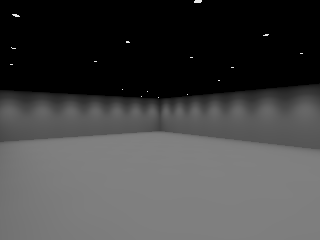
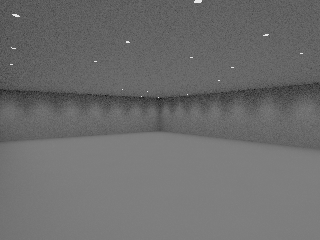
global lighting

diff --git a/render_from_ifc.py b/render_from_ifc.py
@@ -362,13 +362,20 @@ def get_views(width, depth, height):
 
 def main():
     if len(sys.argv) < 2:
-        print("Usage: python3 render_from_ifc.py <room_id> [view1,view2,...]")
-        print("Available views: corner, top, bottom, bottom_worms_eye, side, front")
+        print("Usage: python3 render_from_ifc.py <room_id> [view1,view2,...] [gi_samples]")
+        print("Available views: corner, top, bottom, bottom_worms_eye, side, front, "
+              "full_room, fixtures")
+        print("gi_samples: optional -- enables global illumination with this many "
+              "bounce samples per pixel (e.g. 4). Slower (roughly 1+N times the cost) "
+              "but fills in bounced light, most visible on ceilings. Omit for direct-"
+              "light-only rendering (faster, the default this whole project has used).")
         sys.exit(1)
 
     room_id = sys.argv[1]
     requested_views = sys.argv[2].split(",") if len(sys.argv) > 2 else \
         ["corner", "front", "top", "bottom_worms_eye"]
+    gi_samples = int(sys.argv[3]) if len(sys.argv) > 3 else 0
+    enable_gi = gi_samples > 0
 
     try:
         width, depth, height, lights = build_scene_from_real_data(room_id)
@@ -405,10 +412,10 @@ def main():
         # (tested: 72 lights took 5+ minutes at supersample=2, timing out),
         # supersampling's 4x cost isn't worth it for a general overview shot
         # the way it is for guaranteeing a tiny fixture disc gets hit.
-        supersample = 1 if view_name == "full_room" else 2
+        supersample = 1 if (view_name == "full_room" or enable_gi) else 2
         render(lights, v["cam_pos"], v["look_at"], width, depth, height,
                fov_deg=v["fov_deg"], out_path=f"render_{room_id[:8]}_{view_name}.png",
-               supersample=supersample)
+               supersample=supersample, enable_gi=enable_gi, gi_samples=gi_samples)
 
 
 if __name__ == "__main__":
